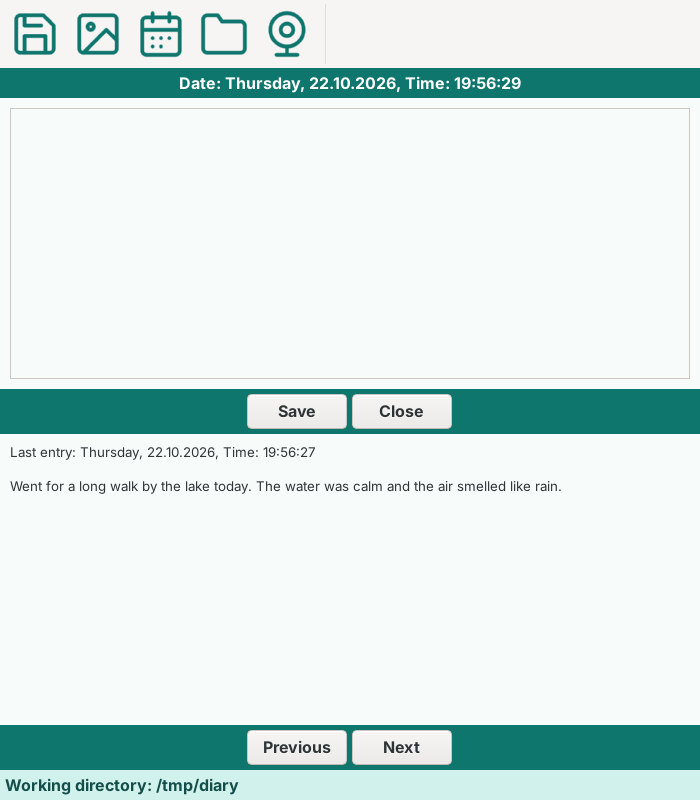
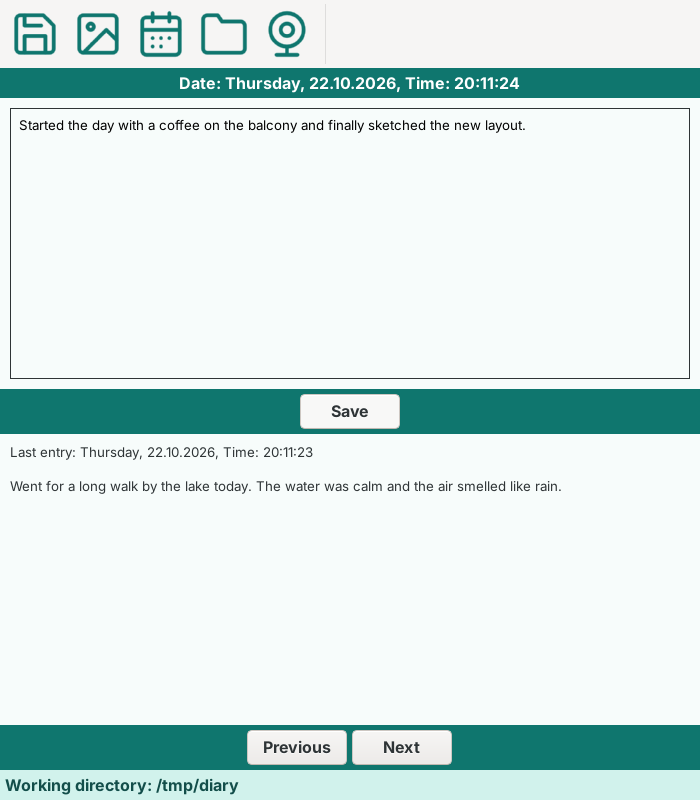
Remove Close button, rename 'Choose now' to 'Now', pad text input
- The window is closed with the [x], so the Close button is removed and
  the button panel now supports a single button
- Rename the 'Choose now' button of the date dialog to 'Now'
- Put the text input into a bordered panel to get inner padding
- Make the UI tests create the app inside the test data folder and work
  without an existing Info.txt, so they no longer depend on its content
- Update the README screenshot

Refs #12

Claude-Session: https://claude.ai/code/session_01LCQ9y7tKBQPgtgxiUpDuzf

diff --git a/story_time/user_interface.py b/story_time/user_interface.py
@@ -45,6 +45,7 @@ from story_time.XML_write import find_closest_entry, save_entry
 
 LR_EXPAND = wx.LEFT | wx.RIGHT | wx.EXPAND
 EXPAND_ALL = wx.ALL | wx.EXPAND
+TEXT_PADDING = 8  #: Space in pixels between the border and the text input.
 
 
 class TextLinePanel(wx.Panel):
@@ -72,6 +73,10 @@ class TextLinePanel(wx.Panel):
 
 
 class TwoButtonPanel(wx.Panel):
+    """Panel with one or two buttons next to each other."""
+
+    but_2: Optional[wx.Button] = None
+
     def __init__(
         self,
         parent: wx.Frame,
@@ -79,17 +84,19 @@ class TwoButtonPanel(wx.Panel):
         center: bool = True,
         bg_col: wx.Colour = but_bg_col,
     ):
+        assert 1 <= len(labels) <= 2, "Only one or two buttons are supported."
         wx.Panel.__init__(self, parent)
         box = wx.BoxSizer(wx.VERTICAL)
         # Next and previous entry buttons
         self.but_1 = wx.Button(self, wx.ID_ANY, label=labels[0], size=(100, 35))
-        self.but_2 = wx.Button(self, wx.ID_ANY, label=labels[1], size=(100, 35))
         self.but_1.SetFont(wx.Font(button_f_info))
-        self.but_2.SetFont(wx.Font(button_f_info))
 
         h_box_p_but = wx.BoxSizer(wx.HORIZONTAL)
         h_box_p_but.Add(self.but_1)
-        h_box_p_but.Add(self.but_2, flag=wx.LEFT, border=5)
+        if len(labels) > 1:
+            self.but_2 = wx.Button(self, wx.ID_ANY, label=labels[1], size=(100, 35))
+            self.but_2.SetFont(wx.Font(button_f_info))
+            h_box_p_but.Add(self.but_2, flag=wx.LEFT, border=5)
 
         flags = (
             wx.ALIGN_CENTER | wx.TOP | wx.BOTTOM
@@ -102,9 +109,12 @@ class TwoButtonPanel(wx.Panel):
         self.SetSizer(box)
         self.SetBackgroundColour(bg_col)
 
-    def set_but_methods(self, met_1: Callable, met_2: Callable) -> None:
+    def set_but_methods(
+        self, met_1: Callable, met_2: Optional[Callable] = None
+    ) -> None:
         self.Bind(wx.EVT_BUTTON, met_1, id=self.but_1.Id)
-        self.Bind(wx.EVT_BUTTON, met_2, id=self.but_2.Id)
+        if self.but_2 is not None and met_2 is not None:
+            self.Bind(wx.EVT_BUTTON, met_2, id=self.but_2.Id)
 
 
 class TextAndImgPanel(wx.Panel):
@@ -137,16 +147,27 @@ class TextAndImgPanel(wx.Panel):
         text_shown = "Default text."
         kws = {"style": wx.TE_MULTILINE, "size": (-1, 180)}
         if editable:
-            self.text_box = wx.TextCtrl(self, **kws)
+            # A text control has no inner padding, so put a borderless one into
+            # a bordered panel and let the sizer provide the padding.
+            self.text_frame = wx.Panel(self, style=wx.BORDER_SIMPLE, size=(-1, 180))
+            self.text_box = wx.TextCtrl(
+                self.text_frame, style=wx.TE_MULTILINE | wx.BORDER_NONE
+            )
+            self.text_frame.SetBackgroundColour(bg_col)
+            pad_box = wx.BoxSizer(wx.VERTICAL)
+            pad_box.Add(self.text_box, 1, wx.EXPAND | wx.ALL, TEXT_PADDING)
+            self.text_frame.SetSizer(pad_box)
+            text_widget = self.text_frame
         else:
             self.text_box = wx.StaticText(self, label=text_shown, **kws)
+            text_widget = self.text_box
         self.text_box.SetBackgroundColour(bg_col)
 
         EXP_ALL = wx.EXPAND | wx.ALL
         h_box_3 = wx.BoxSizer(wx.HORIZONTAL)
 
         h_box_3.Add(self.img, proportion=1, flag=EXP_ALL, border=5)
-        h_box_3.Add(self.text_box, proportion=3, flag=EXP_ALL, border=5)
+        h_box_3.Add(text_widget, proportion=3, flag=EXP_ALL, border=5)
 
         box.Add(h_box_3, 1, EXP_ALL, 5)
         box.Fit(self)
@@ -749,9 +770,9 @@ class StoryTimeAppUI(StoryTimeApp):
 
         self.next_prev_buttons.set_but_methods(self.prev_entry, self.next_entry)
         save_close_buttons = TwoButtonPanel(
-            self, labels=["Save", "Close"], center=True, bg_col=but_bg_col
+            self, labels=["Save"], center=True, bg_col=but_bg_col
         )
-        save_close_buttons.set_but_methods(self.OnOKButtonClick, self.OnX)
+        save_close_buttons.set_but_methods(self.OnOKButtonClick)
 
         # Text and images
         text_edit = TextAndImgPanel(

diff --git a/tests/test_UI.py b/tests/test_UI.py
@@ -54,11 +54,9 @@ class TestMain2(TestCase):
             ex.OnX(None, self.click_on_close)
             ex.OnX(None, self.discard_text)
 
-        with change_info_txt(DATA_DIR):
-            with create_test_dirs():
-                wx.CallAfter(fun)
-                app.MainLoop()
-                app.Destroy()
+        wx.CallAfter(fun)
+        app.MainLoop()
+        app.Destroy()
 
     def play_with_app_preview(self, ex, app):
         def fun():
@@ -80,11 +78,9 @@ class TestMain2(TestCase):
 
             ex.OnX(None, self.discard_text)
 
-        with change_info_txt(DATA_DIR):
-            with create_test_dirs():
-                wx.CallAfter(fun)
-                app.MainLoop()
-                app.Destroy()
+        wx.CallAfter(fun)
+        app.MainLoop()
+        app.Destroy()
 
     def play_with_app(self, ex, app):
         def fun():
@@ -150,12 +146,19 @@ class TestMain2(TestCase):
             ex.OnX(None, self.click_on_close)
             ex.OnX(None, self.discard_text)
 
+        wx.CallAfter(fun)
+        app.MainLoop()
+        app.Destroy()
+        pass
+
+    @staticmethod
+    def run_in_test_dir(play):
+        """Creates the app using the test data folder and plays with it."""
         with change_info_txt(DATA_DIR):
             with create_test_dirs():
-                wx.CallAfter(fun)
-                app.MainLoop()
-                app.Destroy()
-        pass
+                app = wx.App()
+                ex = StoryTimeAppUI(None)
+                play(ex, app)
 
     def test_main_func(self):
         def close(d):
@@ -166,16 +169,10 @@ class TestMain2(TestCase):
                 main(close)
 
     def test_main_UI(self):
-        app = wx.App()
-        ex = StoryTimeAppUI(None)
-        self.play_with_app(ex, app)
+        self.run_in_test_dir(self.play_with_app)
 
     def test_UI_exit(self):
-        app = wx.App()
-        ex = StoryTimeAppUI(None)
-        self.play_with_app_exit(ex, app)
+        self.run_in_test_dir(self.play_with_app_exit)
 
     def test_UI_preview(self):
-        app = wx.App()
-        ex = StoryTimeAppUI(None)
-        self.play_with_app_preview(ex, app)
+        self.run_in_test_dir(self.play_with_app_preview)

diff --git a/tests/test_util.py b/tests/test_util.py
@@ -83,13 +83,19 @@ def create_app():
 
 @contextmanager
 def change_info_txt(dir_to_set):
-    with open(info_file) as f:
-        curr_info_txt = f.read()
+    existed = os.path.exists(info_file)
+    curr_info_txt = None
+    if existed:
+        with open(info_file) as f:
+            curr_info_txt = f.read()
     story_time.util.data_path = dir_to_set
     write_folder_to_file()
     yield
-    with open(info_file, "w") as f:
-        f.write(curr_info_txt)
+    if existed:
+        with open(info_file, "w") as f:
+            f.write(curr_info_txt)
+    else:
+        os.remove(info_file)
 
 
 @contextmanager

diff --git a/story_time/util.py b/story_time/util.py
@@ -326,7 +326,7 @@ class ChangeDateDialog(TwoButtonDialogBase):
         self.timePicker = wx.adv.TimePickerCtrl(self, dt=self.dt)
 
         # Define extra button
-        now_button = wx.Button(self, label="Choose now")
+        now_button = wx.Button(self, label="Now")
         now_button.Bind(wx.EVT_BUTTON, self.set_now_and_close)
         now_button.SetFont(wx.Font(button_f_info))
 
